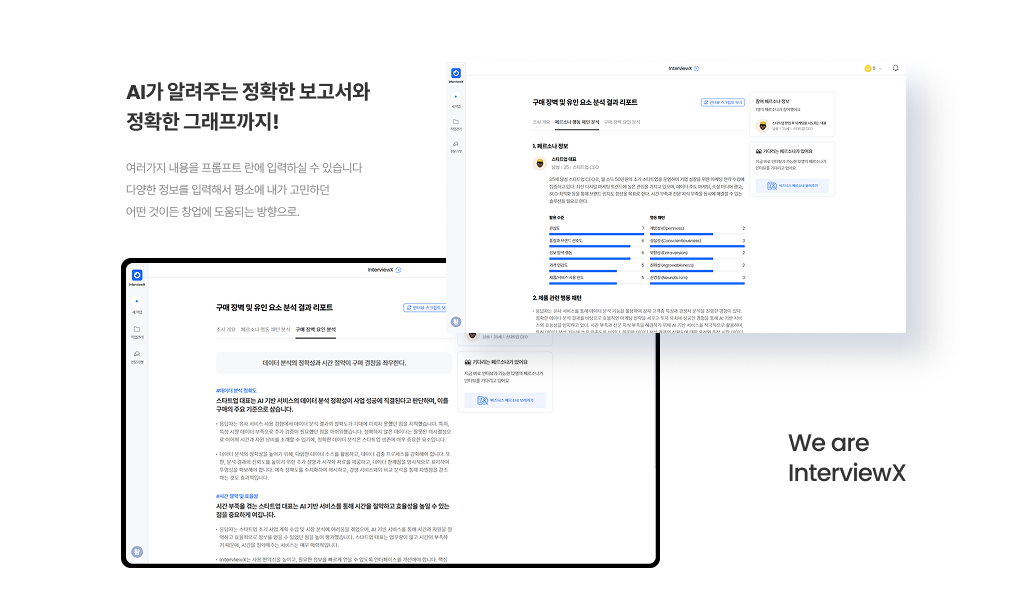
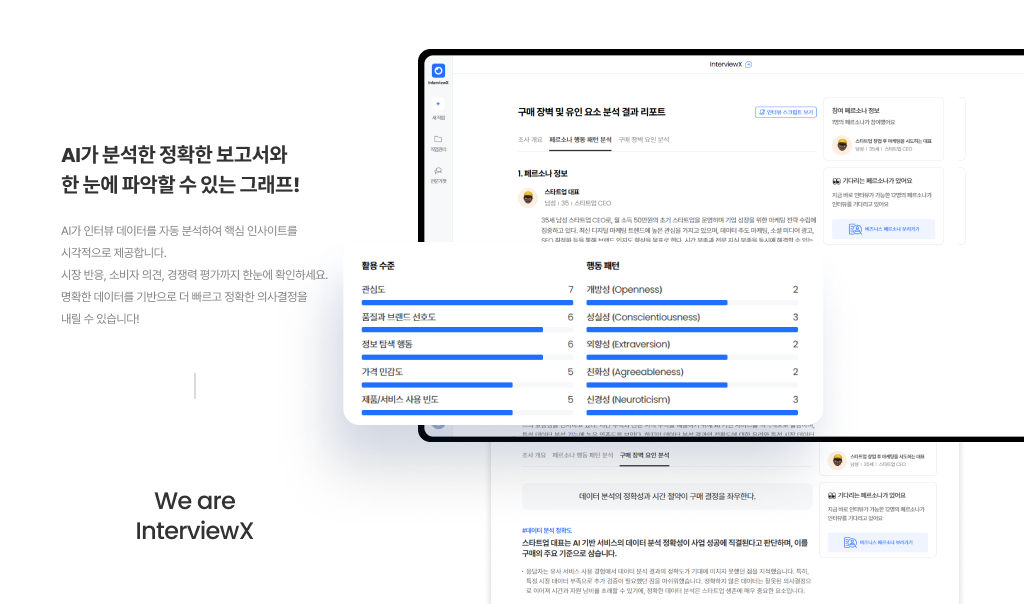
랜딩페이지 디자인 수정

Changed region(s): [[0.0625, 0.1192, 1.0, 0.9834], [0.4062, 0.0596, 1.0, 0.3874], [0.8125, 0.894, 0.9062, 0.9238]]

diff --git a/src/assets/icons/Logo.jsx b/src/assets/icons/Logo.jsx
@@ -1,22 +1,41 @@
 import React from 'react';
 import { palette } from '../styles/Palette';
 
-const Logo = ({ width = "207", height = "32", color = palette.gray500, ...props }) => {
+const Logo = ({ width = "209", height = "32", color = palette.gray500, ...props }) => {
   return (
-    <svg xmlns="http://www.w3.org/2000/svg" width={width} height={height} viewBox="0 0 208 33" fill="none" {...props}>
-      <path d="M187.517 28.1794C187.323 28.1794 187.161 28.1146 187.031 27.985C186.901 27.8339 186.837 27.6719 186.837 27.4991C186.837 27.4343 186.847 27.3695 186.869 27.3048C186.891 27.24 186.912 27.1752 186.934 27.1104L194.093 16.6147L187.42 6.57259C187.355 6.44301 187.323 6.31344 187.323 6.18386C187.323 6.01109 187.387 5.85992 187.517 5.73034C187.647 5.57917 187.809 5.50359 188.003 5.50359H191.987C192.268 5.50359 192.484 5.57917 192.635 5.73034C192.808 5.88152 192.938 6.02189 193.024 6.15147L197.365 12.5979L201.738 6.15147C201.824 6.02189 201.954 5.88152 202.127 5.73034C202.299 5.57917 202.526 5.50359 202.807 5.50359H206.597C206.77 5.50359 206.921 5.57917 207.051 5.73034C207.202 5.85992 207.277 6.01109 207.277 6.18386C207.277 6.33503 207.234 6.46461 207.148 6.57259L200.475 16.5823L207.666 27.1104C207.709 27.1752 207.731 27.24 207.731 27.3048C207.752 27.3695 207.763 27.4343 207.763 27.4991C207.763 27.6719 207.698 27.8339 207.569 27.985C207.439 28.1146 207.277 28.1794 207.083 28.1794H202.969C202.688 28.1794 202.461 28.1038 202.289 27.9526C202.137 27.8015 202.019 27.6719 201.932 27.5639L197.203 20.7612L192.506 27.5639C192.441 27.6719 192.322 27.8015 192.149 27.9526C191.998 28.1038 191.771 28.1794 191.469 28.1794H187.517Z" fill={color}/>
-      <path d="M167.337 28.1824C167.034 28.1824 166.797 28.1068 166.624 27.9556C166.473 27.8044 166.354 27.6101 166.268 27.3725L161.635 12.3741C161.592 12.2661 161.57 12.1581 161.57 12.0501C161.57 11.8558 161.635 11.6938 161.765 11.5642C161.916 11.4131 162.089 11.3375 162.283 11.3375H165.134C165.414 11.3375 165.63 11.4131 165.782 11.5642C165.933 11.7154 166.03 11.8558 166.073 11.9854L169.021 21.9951L172.163 12.0501C172.206 11.899 172.304 11.7478 172.455 11.5966C172.628 11.4239 172.865 11.3375 173.167 11.3375H175.014C175.316 11.3375 175.543 11.4239 175.694 11.5966C175.867 11.7478 175.975 11.899 176.018 12.0501L179.16 21.9951L182.108 11.9854C182.13 11.8558 182.216 11.7154 182.367 11.5642C182.54 11.4131 182.756 11.3375 183.015 11.3375H185.866C186.06 11.3375 186.222 11.4131 186.352 11.5642C186.503 11.6938 186.579 11.8558 186.579 12.0501C186.579 12.1581 186.568 12.2661 186.546 12.3741L181.881 27.3725C181.817 27.6101 181.698 27.8044 181.525 27.9556C181.374 28.1068 181.147 28.1824 180.845 28.1824H178.35C178.048 28.1824 177.811 28.1068 177.638 27.9556C177.465 27.8044 177.335 27.6101 177.249 27.3725L174.107 17.7839L170.9 27.3725C170.835 27.6101 170.716 27.8044 170.544 27.9556C170.371 28.1068 170.133 28.1824 169.831 28.1824H167.337Z" fill={color}/>
-      <path d="M154.592 28.18C154.376 28.18 154.193 28.1044 154.042 27.9533C153.89 27.8021 153.815 27.6077 153.815 27.3702V12.145C153.815 11.9074 153.89 11.7131 154.042 11.5619C154.193 11.4107 154.376 11.3351 154.592 11.3351H157.832C158.069 11.3351 158.264 11.4107 158.415 11.5619C158.566 11.7131 158.641 11.9074 158.641 12.145V27.3702C158.641 27.6077 158.566 27.8021 158.415 27.9533C158.264 28.1044 158.069 28.18 157.832 28.18H154.592ZM154.495 8.74362C154.279 8.74362 154.096 8.66803 153.944 8.51686C153.793 8.36569 153.718 8.17132 153.718 7.93377V5.34224C153.718 5.10469 153.793 4.91032 153.944 4.75915C154.096 4.58638 154.279 4.5 154.495 4.5H157.896C158.134 4.5 158.328 4.58638 158.48 4.75915C158.652 4.91032 158.739 5.10469 158.739 5.34224V7.93377C158.739 8.17132 158.652 8.36569 158.48 8.51686C158.328 8.66803 158.134 8.74362 157.896 8.74362H154.495Z" fill={color}/>
-      <path d="M142.381 28.503C139.897 28.503 137.921 27.8119 136.453 26.4298C135.006 25.0476 134.239 23.0392 134.153 20.4045C134.153 20.2317 134.153 20.005 134.153 19.7242C134.153 19.4219 134.153 19.1843 134.153 19.0115C134.239 17.3486 134.617 15.9233 135.287 14.7355C135.956 13.5262 136.896 12.6083 138.105 11.982C139.314 11.3342 140.729 11.0102 142.349 11.0102C144.163 11.0102 145.674 11.3881 146.884 12.144C148.115 12.8783 149.033 13.8933 149.637 15.189C150.264 16.4632 150.577 17.9317 150.577 19.5946V20.3397C150.577 20.5557 150.49 20.7392 150.318 20.8904C150.166 21.0416 149.983 21.1172 149.767 21.1172H139.174C139.174 21.1388 139.174 21.1819 139.174 21.2467C139.174 21.2899 139.174 21.3331 139.174 21.3763C139.196 22.0674 139.325 22.7045 139.563 23.2876C139.822 23.8491 140.178 24.3026 140.632 24.6481C141.107 24.9936 141.668 25.1664 142.316 25.1664C142.856 25.1664 143.299 25.0908 143.644 24.9396C143.99 24.7885 144.271 24.6049 144.487 24.389C144.724 24.173 144.897 23.9894 145.005 23.8383C145.199 23.6223 145.35 23.4927 145.458 23.4495C145.588 23.3847 145.782 23.3523 146.042 23.3523H149.41C149.626 23.3523 149.799 23.4171 149.929 23.5467C150.08 23.6547 150.145 23.8167 150.123 24.0326C150.102 24.3782 149.918 24.8101 149.572 25.3284C149.249 25.8251 148.763 26.3218 148.115 26.8185C147.467 27.2936 146.657 27.6931 145.685 28.0171C144.735 28.341 143.634 28.503 142.381 28.503ZM139.174 18.1693H145.523V18.1045C145.523 17.3271 145.394 16.6576 145.134 16.0961C144.897 15.513 144.541 15.0595 144.065 14.7355C143.59 14.4116 143.018 14.2496 142.349 14.2496C141.679 14.2496 141.107 14.4116 140.632 14.7355C140.157 15.0595 139.789 15.513 139.53 16.0961C139.293 16.6576 139.174 17.3271 139.174 18.1045V18.1693Z" fill={color}/>
-      <path d="M122.541 28.1824C122.217 28.1824 121.969 28.1068 121.796 27.9556C121.645 27.7828 121.515 27.5885 121.407 27.3725L115.317 12.3417C115.274 12.2553 115.252 12.1581 115.252 12.0501C115.252 11.8558 115.317 11.6938 115.447 11.5642C115.598 11.4131 115.771 11.3375 115.965 11.3375H119.107C119.388 11.3375 119.593 11.4131 119.723 11.5642C119.874 11.7154 119.971 11.8558 120.014 11.9854L123.999 22.6754L127.983 11.9854C128.048 11.8558 128.145 11.7154 128.275 11.5642C128.426 11.4131 128.631 11.3375 128.89 11.3375H132.033C132.227 11.3375 132.389 11.4131 132.519 11.5642C132.67 11.6938 132.745 11.8558 132.745 12.0501C132.745 12.1581 132.734 12.2553 132.713 12.3417L126.59 27.3725C126.504 27.5885 126.374 27.7828 126.202 27.9556C126.029 28.1068 125.781 28.1824 125.457 28.1824H122.541Z" fill={color}/>
-      <path d="M103.281 28.1824C103.065 28.1824 102.881 28.1068 102.73 27.9556C102.579 27.8044 102.503 27.6101 102.503 27.3725V12.1473C102.503 11.9314 102.579 11.7478 102.73 11.5966C102.881 11.4239 103.065 11.3375 103.281 11.3375H106.455C106.671 11.3375 106.855 11.4239 107.006 11.5966C107.179 11.7478 107.265 11.9314 107.265 12.1473V13.4431C107.805 12.7736 108.464 12.2553 109.241 11.8882C110.04 11.521 110.958 11.3375 111.995 11.3375H113.388C113.604 11.3375 113.787 11.4131 113.938 11.5642C114.089 11.7154 114.165 11.9098 114.165 12.1473V14.9332C114.165 15.1708 114.089 15.3651 113.938 15.5163C113.787 15.6675 113.604 15.7431 113.388 15.7431H110.537C109.587 15.7431 108.842 16.013 108.302 16.5529C107.762 17.0712 107.492 17.8163 107.492 18.7881V27.3725C107.492 27.6101 107.416 27.8044 107.265 27.9556C107.114 28.1068 106.92 28.1824 106.682 28.1824H103.281Z" fill={color}/>
-      <path d="M91.0694 28.503C88.5858 28.503 86.6098 27.8119 85.1413 26.4298C83.6943 25.0476 82.9277 23.0392 82.8413 20.4045C82.8413 20.2317 82.8413 20.005 82.8413 19.7242C82.8413 19.4219 82.8413 19.1843 82.8413 19.0115C82.9277 17.3486 83.3056 15.9233 83.9751 14.7355C84.6446 13.5262 85.584 12.6083 86.7934 11.982C88.0027 11.3342 89.4173 11.0102 91.037 11.0102C92.851 11.0102 94.3628 11.3881 95.5721 12.144C96.8031 12.8783 97.7209 13.8933 98.3256 15.189C98.9519 16.4632 99.2651 17.9317 99.2651 19.5946V20.3397C99.2651 20.5557 99.1787 20.7392 99.0059 20.8904C98.8547 21.0416 98.6712 21.1172 98.4552 21.1172H87.8624C87.8624 21.1388 87.8624 21.1819 87.8624 21.2467C87.8624 21.2899 87.8624 21.3331 87.8624 21.3763C87.884 22.0674 88.0135 22.7045 88.2511 23.2876C88.5102 23.8491 88.8666 24.3026 89.3201 24.6481C89.7952 24.9936 90.3567 25.1664 91.0046 25.1664C91.5445 25.1664 91.9872 25.0908 92.3327 24.9396C92.6783 24.7885 92.959 24.6049 93.175 24.389C93.4125 24.173 93.5853 23.9894 93.6933 23.8383C93.8876 23.6223 94.0388 23.4927 94.1468 23.4495C94.2764 23.3847 94.4708 23.3523 94.7299 23.3523H98.0989C98.3148 23.3523 98.4876 23.4171 98.6172 23.5467C98.7684 23.6547 98.8331 23.8167 98.8115 24.0326C98.7899 24.3782 98.6064 24.8101 98.2608 25.3284C97.9369 25.8251 97.451 26.3218 96.8031 26.8185C96.1552 27.2936 95.3454 27.6931 94.3736 28.0171C93.4233 28.341 92.3219 28.503 91.0694 28.503ZM87.8624 18.1693H94.2116V18.1045C94.2116 17.3271 94.082 16.6576 93.8229 16.0961C93.5853 15.513 93.229 15.0595 92.7539 14.7355C92.2788 14.4116 91.7065 14.2496 91.037 14.2496C90.3675 14.2496 89.7952 14.4116 89.3201 14.7355C88.845 15.0595 88.4779 15.513 88.2187 16.0961C87.9811 16.6576 87.8624 17.3271 87.8624 18.1045V18.1693Z" fill={color}/>
-      <path d="M77.1321 28.1804C75.7931 28.1804 74.6485 27.9645 73.6983 27.5326C72.7481 27.0791 72.0246 26.388 71.5279 25.4593C71.0528 24.5307 70.8152 23.3645 70.8152 21.9608V15.1581H68.2885C68.0509 15.1581 67.8566 15.0825 67.7054 14.9313C67.5542 14.7801 67.4787 14.5858 67.4787 14.3482V12.1454C67.4787 11.9078 67.5542 11.7135 67.7054 11.5623C67.8566 11.4111 68.0509 11.3356 68.2885 11.3356H70.8152V5.99054C70.8152 5.75299 70.8908 5.55862 71.042 5.40745C71.2148 5.25628 71.4091 5.18069 71.6251 5.18069H74.7997C75.0373 5.18069 75.2316 5.25628 75.3828 5.40745C75.534 5.55862 75.6096 5.75299 75.6096 5.99054V11.3356H79.6588C79.8748 11.3356 80.0583 11.4111 80.2095 11.5623C80.3607 11.7135 80.4363 11.9078 80.4363 12.1454V14.3482C80.4363 14.5858 80.3607 14.7801 80.2095 14.9313C80.0583 15.0825 79.8748 15.1581 79.6588 15.1581H75.6096V21.5721C75.6096 22.3927 75.7499 23.0406 76.0307 23.5157C76.333 23.9692 76.8513 24.196 77.5856 24.196H79.9503C80.1663 24.196 80.3499 24.2716 80.5011 24.4227C80.6522 24.5739 80.7278 24.7575 80.7278 24.9734V27.3706C80.7278 27.6082 80.6522 27.8025 80.5011 27.9537C80.3499 28.1049 80.1663 28.1804 79.9503 28.1804H77.1321Z" fill={color}/>
-      <path d="M49.5015 28.179C49.2856 28.179 49.102 28.1035 48.9508 27.9523C48.7997 27.8011 48.7241 27.6068 48.7241 27.3692V12.144C48.7241 11.9065 48.7997 11.7121 48.9508 11.5609C49.102 11.4097 49.2856 11.3342 49.5015 11.3342H52.6761C52.9137 11.3342 53.1081 11.4097 53.2592 11.5609C53.4104 11.7121 53.486 11.9065 53.486 12.144V13.4074C54.0475 12.7163 54.771 12.144 55.6564 11.6905C56.5418 11.237 57.6216 11.0102 58.8958 11.0102C60.17 11.0102 61.2822 11.3018 62.2324 11.8849C63.2042 12.4464 63.9601 13.2778 64.5 14.3792C65.0615 15.459 65.3422 16.7764 65.3422 18.3313V27.3692C65.3422 27.6068 65.2558 27.8011 65.083 27.9523C64.9319 28.1035 64.7483 28.179 64.5323 28.179H61.0986C60.861 28.179 60.6667 28.1035 60.5155 27.9523C60.3643 27.8011 60.2887 27.6068 60.2887 27.3692V18.5256C60.2887 17.381 60.008 16.4956 59.4465 15.8693C58.9066 15.2214 58.1075 14.8975 57.0493 14.8975C56.0343 14.8975 55.2245 15.2214 54.6198 15.8693C54.0151 16.4956 53.7127 17.381 53.7127 18.5256V27.3692C53.7127 27.6068 53.6372 27.8011 53.486 27.9523C53.3348 28.1035 53.1513 28.179 52.9353 28.179H49.5015Z" fill={color}/>
-      <path d="M39.8304 28.1794C39.5928 28.1794 39.3984 28.1038 39.2473 27.9526C39.0961 27.8015 39.0205 27.6071 39.0205 27.3695V6.31344C39.0205 6.07588 39.0961 5.88152 39.2473 5.73034C39.3984 5.57917 39.5928 5.50359 39.8304 5.50359H43.4909C43.7284 5.50359 43.9228 5.57917 44.074 5.73034C44.2251 5.88152 44.3007 6.07588 44.3007 6.31344V27.3695C44.3007 27.6071 44.2251 27.8015 44.074 27.9526C43.9228 28.1038 43.7284 28.1794 43.4909 28.1794H39.8304Z" fill={color}/>
-      <rect y="0.5" width="30.4762" height="32" rx="3.79849" fill="#226FFF"/>
-      <path fill-rule="evenodd" clip-rule="evenodd" d="M13.5721 10.8447C14.0982 10.6906 14.6548 10.608 15.2306 10.608C18.4842 10.608 21.1217 13.2455 21.1217 16.4991C21.1217 19.7527 18.4842 22.3902 15.2306 22.3902C11.9771 22.3902 9.33952 19.7527 9.33952 16.4991C9.33952 15.6298 9.52782 14.8045 9.86584 14.0617C10.2982 14.8075 11.1051 15.3092 12.0293 15.3092C13.4093 15.3092 14.5281 14.1905 14.5281 12.8104C14.5281 12.0126 14.1542 11.3022 13.5721 10.8447ZM15.2306 7.4809C10.25 7.4809 6.2124 11.5185 6.2124 16.4991C6.2124 21.4797 10.25 25.5173 15.2306 25.5173C20.2112 25.5173 24.2488 21.4797 24.2488 16.4991C24.2488 11.5185 20.2112 7.4809 15.2306 7.4809Z" fill="white"/>
-      <path d="M18.9906 18.665C18.9906 19.5127 18.3034 20.1999 17.4558 20.1999C16.6081 20.1999 15.9209 19.5127 15.9209 18.665C15.9209 17.8174 16.6081 17.1302 17.4558 17.1302C18.3034 17.1302 18.9906 17.8174 18.9906 18.665Z" fill="white" fill-opacity="0.2"/>
+    // <svg xmlns="http://www.w3.org/2000/svg" width={width} height={height} viewBox="0 0 208 33" fill="none" {...props}>
+    //   <path d="M187.517 28.1794C187.323 28.1794 187.161 28.1146 187.031 27.985C186.901 27.8339 186.837 27.6719 186.837 27.4991C186.837 27.4343 186.847 27.3695 186.869 27.3048C186.891 27.24 186.912 27.1752 186.934 27.1104L194.093 16.6147L187.42 6.57259C187.355 6.44301 187.323 6.31344 187.323 6.18386C187.323 6.01109 187.387 5.85992 187.517 5.73034C187.647 5.57917 187.809 5.50359 188.003 5.50359H191.987C192.268 5.50359 192.484 5.57917 192.635 5.73034C192.808 5.88152 192.938 6.02189 193.024 6.15147L197.365 12.5979L201.738 6.15147C201.824 6.02189 201.954 5.88152 202.127 5.73034C202.299 5.57917 202.526 5.50359 202.807 5.50359H206.597C206.77 5.50359 206.921 5.57917 207.051 5.73034C207.202 5.85992 207.277 6.01109 207.277 6.18386C207.277 6.33503 207.234 6.46461 207.148 6.57259L200.475 16.5823L207.666 27.1104C207.709 27.1752 207.731 27.24 207.731 27.3048C207.752 27.3695 207.763 27.4343 207.763 27.4991C207.763 27.6719 207.698 27.8339 207.569 27.985C207.439 28.1146 207.277 28.1794 207.083 28.1794H202.969C202.688 28.1794 202.461 28.1038 202.289 27.9526C202.137 27.8015 202.019 27.6719 201.932 27.5639L197.203 20.7612L192.506 27.5639C192.441 27.6719 192.322 27.8015 192.149 27.9526C191.998 28.1038 191.771 28.1794 191.469 28.1794H187.517Z" fill={color}/>
+    //   <path d="M167.337 28.1824C167.034 28.1824 166.797 28.1068 166.624 27.9556C166.473 27.8044 166.354 27.6101 166.268 27.3725L161.635 12.3741C161.592 12.2661 161.57 12.1581 161.57 12.0501C161.57 11.8558 161.635 11.6938 161.765 11.5642C161.916 11.4131 162.089 11.3375 162.283 11.3375H165.134C165.414 11.3375 165.63 11.4131 165.782 11.5642C165.933 11.7154 166.03 11.8558 166.073 11.9854L169.021 21.9951L172.163 12.0501C172.206 11.899 172.304 11.7478 172.455 11.5966C172.628 11.4239 172.865 11.3375 173.167 11.3375H175.014C175.316 11.3375 175.543 11.4239 175.694 11.5966C175.867 11.7478 175.975 11.899 176.018 12.0501L179.16 21.9951L182.108 11.9854C182.13 11.8558 182.216 11.7154 182.367 11.5642C182.54 11.4131 182.756 11.3375 183.015 11.3375H185.866C186.06 11.3375 186.222 11.4131 186.352 11.5642C186.503 11.6938 186.579 11.8558 186.579 12.0501C186.579 12.1581 186.568 12.2661 186.546 12.3741L181.881 27.3725C181.817 27.6101 181.698 27.8044 181.525 27.9556C181.374 28.1068 181.147 28.1824 180.845 28.1824H178.35C178.048 28.1824 177.811 28.1068 177.638 27.9556C177.465 27.8044 177.335 27.6101 177.249 27.3725L174.107 17.7839L170.9 27.3725C170.835 27.6101 170.716 27.8044 170.544 27.9556C170.371 28.1068 170.133 28.1824 169.831 28.1824H167.337Z" fill={color}/>
+    //   <path d="M154.592 28.18C154.376 28.18 154.193 28.1044 154.042 27.9533C153.89 27.8021 153.815 27.6077 153.815 27.3702V12.145C153.815 11.9074 153.89 11.7131 154.042 11.5619C154.193 11.4107 154.376 11.3351 154.592 11.3351H157.832C158.069 11.3351 158.264 11.4107 158.415 11.5619C158.566 11.7131 158.641 11.9074 158.641 12.145V27.3702C158.641 27.6077 158.566 27.8021 158.415 27.9533C158.264 28.1044 158.069 28.18 157.832 28.18H154.592ZM154.495 8.74362C154.279 8.74362 154.096 8.66803 153.944 8.51686C153.793 8.36569 153.718 8.17132 153.718 7.93377V5.34224C153.718 5.10469 153.793 4.91032 153.944 4.75915C154.096 4.58638 154.279 4.5 154.495 4.5H157.896C158.134 4.5 158.328 4.58638 158.48 4.75915C158.652 4.91032 158.739 5.10469 158.739 5.34224V7.93377C158.739 8.17132 158.652 8.36569 158.48 8.51686C158.328 8.66803 158.134 8.74362 157.896 8.74362H154.495Z" fill={color}/>
+    //   <path d="M142.381 28.503C139.897 28.503 137.921 27.8119 136.453 26.4298C135.006 25.0476 134.239 23.0392 134.153 20.4045C134.153 20.2317 134.153 20.005 134.153 19.7242C134.153 19.4219 134.153 19.1843 134.153 19.0115C134.239 17.3486 134.617 15.9233 135.287 14.7355C135.956 13.5262 136.896 12.6083 138.105 11.982C139.314 11.3342 140.729 11.0102 142.349 11.0102C144.163 11.0102 145.674 11.3881 146.884 12.144C148.115 12.8783 149.033 13.8933 149.637 15.189C150.264 16.4632 150.577 17.9317 150.577 19.5946V20.3397C150.577 20.5557 150.49 20.7392 150.318 20.8904C150.166 21.0416 149.983 21.1172 149.767 21.1172H139.174C139.174 21.1388 139.174 21.1819 139.174 21.2467C139.174 21.2899 139.174 21.3331 139.174 21.3763C139.196 22.0674 139.325 22.7045 139.563 23.2876C139.822 23.8491 140.178 24.3026 140.632 24.6481C141.107 24.9936 141.668 25.1664 142.316 25.1664C142.856 25.1664 143.299 25.0908 143.644 24.9396C143.99 24.7885 144.271 24.6049 144.487 24.389C144.724 24.173 144.897 23.9894 145.005 23.8383C145.199 23.6223 145.35 23.4927 145.458 23.4495C145.588 23.3847 145.782 23.3523 146.042 23.3523H149.41C149.626 23.3523 149.799 23.4171 149.929 23.5467C150.08 23.6547 150.145 23.8167 150.123 24.0326C150.102 24.3782 149.918 24.8101 149.572 25.3284C149.249 25.8251 148.763 26.3218 148.115 26.8185C147.467 27.2936 146.657 27.6931 145.685 28.0171C144.735 28.341 143.634 28.503 142.381 28.503ZM139.174 18.1693H145.523V18.1045C145.523 17.3271 145.394 16.6576 145.134 16.0961C144.897 15.513 144.541 15.0595 144.065 14.7355C143.59 14.4116 143.018 14.2496 142.349 14.2496C141.679 14.2496 141.107 14.4116 140.632 14.7355C140.157 15.0595 139.789 15.513 139.53 16.0961C139.293 16.6576 139.174 17.3271 139.174 18.1045V18.1693Z" fill={color}/>
+    //   <path d="M122.541 28.1824C122.217 28.1824 121.969 28.1068 121.796 27.9556C121.645 27.7828 121.515 27.5885 121.407 27.3725L115.317 12.3417C115.274 12.2553 115.252 12.1581 115.252 12.0501C115.252 11.8558 115.317 11.6938 115.447 11.5642C115.598 11.4131 115.771 11.3375 115.965 11.3375H119.107C119.388 11.3375 119.593 11.4131 119.723 11.5642C119.874 11.7154 119.971 11.8558 120.014 11.9854L123.999 22.6754L127.983 11.9854C128.048 11.8558 128.145 11.7154 128.275 11.5642C128.426 11.4131 128.631 11.3375 128.89 11.3375H132.033C132.227 11.3375 132.389 11.4131 132.519 11.5642C132.67 11.6938 132.745 11.8558 132.745 12.0501C132.745 12.1581 132.734 12.2553 132.713 12.3417L126.59 27.3725C126.504 27.5885 126.374 27.7828 126.202 27.9556C126.029 28.1068 125.781 28.1824 125.457 28.1824H122.541Z" fill={color}/>
+    //   <path d="M103.281 28.1824C103.065 28.1824 102.881 28.1068 102.73 27.9556C102.579 27.8044 102.503 27.6101 102.503 27.3725V12.1473C102.503 11.9314 102.579 11.7478 102.73 11.5966C102.881 11.4239 103.065 11.3375 103.281 11.3375H106.455C106.671 11.3375 106.855 11.4239 107.006 11.5966C107.179 11.7478 107.265 11.9314 107.265 12.1473V13.4431C107.805 12.7736 108.464 12.2553 109.241 11.8882C110.04 11.521 110.958 11.3375 111.995 11.3375H113.388C113.604 11.3375 113.787 11.4131 113.938 11.5642C114.089 11.7154 114.165 11.9098 114.165 12.1473V14.9332C114.165 15.1708 114.089 15.3651 113.938 15.5163C113.787 15.6675 113.604 15.7431 113.388 15.7431H110.537C109.587 15.7431 108.842 16.013 108.302 16.5529C107.762 17.0712 107.492 17.8163 107.492 18.7881V27.3725C107.492 27.6101 107.416 27.8044 107.265 27.9556C107.114 28.1068 106.92 28.1824 106.682 28.1824H103.281Z" fill={color}/>
+    //   <path d="M91.0694 28.503C88.5858 28.503 86.6098 27.8119 85.1413 26.4298C83.6943 25.0476 82.9277 23.0392 82.8413 20.4045C82.8413 20.2317 82.8413 20.005 82.8413 19.7242C82.8413 19.4219 82.8413 19.1843 82.8413 19.0115C82.9277 17.3486 83.3056 15.9233 83.9751 14.7355C84.6446 13.5262 85.584 12.6083 86.7934 11.982C88.0027 11.3342 89.4173 11.0102 91.037 11.0102C92.851 11.0102 94.3628 11.3881 95.5721 12.144C96.8031 12.8783 97.7209 13.8933 98.3256 15.189C98.9519 16.4632 99.2651 17.9317 99.2651 19.5946V20.3397C99.2651 20.5557 99.1787 20.7392 99.0059 20.8904C98.8547 21.0416 98.6712 21.1172 98.4552 21.1172H87.8624C87.8624 21.1388 87.8624 21.1819 87.8624 21.2467C87.8624 21.2899 87.8624 21.3331 87.8624 21.3763C87.884 22.0674 88.0135 22.7045 88.2511 23.2876C88.5102 23.8491 88.8666 24.3026 89.3201 24.6481C89.7952 24.9936 90.3567 25.1664 91.0046 25.1664C91.5445 25.1664 91.9872 25.0908 92.3327 24.9396C92.6783 24.7885 92.959 24.6049 93.175 24.389C93.4125 24.173 93.5853 23.9894 93.6933 23.8383C93.8876 23.6223 94.0388 23.4927 94.1468 23.4495C94.2764 23.3847 94.4708 23.3523 94.7299 23.3523H98.0989C98.3148 23.3523 98.4876 23.4171 98.6172 23.5467C98.7684 23.6547 98.8331 23.8167 98.8115 24.0326C98.7899 24.3782 98.6064 24.8101 98.2608 25.3284C97.9369 25.8251 97.451 26.3218 96.8031 26.8185C96.1552 27.2936 95.3454 27.6931 94.3736 28.0171C93.4233 28.341 92.3219 28.503 91.0694 28.503ZM87.8624 18.1693H94.2116V18.1045C94.2116 17.3271 94.082 16.6576 93.8229 16.0961C93.5853 15.513 93.229 15.0595 92.7539 14.7355C92.2788 14.4116 91.7065 14.2496 91.037 14.2496C90.3675 14.2496 89.7952 14.4116 89.3201 14.7355C88.845 15.0595 88.4779 15.513 88.2187 16.0961C87.9811 16.6576 87.8624 17.3271 87.8624 18.1045V18.1693Z" fill={color}/>
+    //   <path d="M77.1321 28.1804C75.7931 28.1804 74.6485 27.9645 73.6983 27.5326C72.7481 27.0791 72.0246 26.388 71.5279 25.4593C71.0528 24.5307 70.8152 23.3645 70.8152 21.9608V15.1581H68.2885C68.0509 15.1581 67.8566 15.0825 67.7054 14.9313C67.5542 14.7801 67.4787 14.5858 67.4787 14.3482V12.1454C67.4787 11.9078 67.5542 11.7135 67.7054 11.5623C67.8566 11.4111 68.0509 11.3356 68.2885 11.3356H70.8152V5.99054C70.8152 5.75299 70.8908 5.55862 71.042 5.40745C71.2148 5.25628 71.4091 5.18069 71.6251 5.18069H74.7997C75.0373 5.18069 75.2316 5.25628 75.3828 5.40745C75.534 5.55862 75.6096 5.75299 75.6096 5.99054V11.3356H79.6588C79.8748 11.3356 80.0583 11.4111 80.2095 11.5623C80.3607 11.7135 80.4363 11.9078 80.4363 12.1454V14.3482C80.4363 14.5858 80.3607 14.7801 80.2095 14.9313C80.0583 15.0825 79.8748 15.1581 79.6588 15.1581H75.6096V21.5721C75.6096 22.3927 75.7499 23.0406 76.0307 23.5157C76.333 23.9692 76.8513 24.196 77.5856 24.196H79.9503C80.1663 24.196 80.3499 24.2716 80.5011 24.4227C80.6522 24.5739 80.7278 24.7575 80.7278 24.9734V27.3706C80.7278 27.6082 80.6522 27.8025 80.5011 27.9537C80.3499 28.1049 80.1663 28.1804 79.9503 28.1804H77.1321Z" fill={color}/>
+    //   <path d="M49.5015 28.179C49.2856 28.179 49.102 28.1035 48.9508 27.9523C48.7997 27.8011 48.7241 27.6068 48.7241 27.3692V12.144C48.7241 11.9065 48.7997 11.7121 48.9508 11.5609C49.102 11.4097 49.2856 11.3342 49.5015 11.3342H52.6761C52.9137 11.3342 53.1081 11.4097 53.2592 11.5609C53.4104 11.7121 53.486 11.9065 53.486 12.144V13.4074C54.0475 12.7163 54.771 12.144 55.6564 11.6905C56.5418 11.237 57.6216 11.0102 58.8958 11.0102C60.17 11.0102 61.2822 11.3018 62.2324 11.8849C63.2042 12.4464 63.9601 13.2778 64.5 14.3792C65.0615 15.459 65.3422 16.7764 65.3422 18.3313V27.3692C65.3422 27.6068 65.2558 27.8011 65.083 27.9523C64.9319 28.1035 64.7483 28.179 64.5323 28.179H61.0986C60.861 28.179 60.6667 28.1035 60.5155 27.9523C60.3643 27.8011 60.2887 27.6068 60.2887 27.3692V18.5256C60.2887 17.381 60.008 16.4956 59.4465 15.8693C58.9066 15.2214 58.1075 14.8975 57.0493 14.8975C56.0343 14.8975 55.2245 15.2214 54.6198 15.8693C54.0151 16.4956 53.7127 17.381 53.7127 18.5256V27.3692C53.7127 27.6068 53.6372 27.8011 53.486 27.9523C53.3348 28.1035 53.1513 28.179 52.9353 28.179H49.5015Z" fill={color}/>
+    //   <path d="M39.8304 28.1794C39.5928 28.1794 39.3984 28.1038 39.2473 27.9526C39.0961 27.8015 39.0205 27.6071 39.0205 27.3695V6.31344C39.0205 6.07588 39.0961 5.88152 39.2473 5.73034C39.3984 5.57917 39.5928 5.50359 39.8304 5.50359H43.4909C43.7284 5.50359 43.9228 5.57917 44.074 5.73034C44.2251 5.88152 44.3007 6.07588 44.3007 6.31344V27.3695C44.3007 27.6071 44.2251 27.8015 44.074 27.9526C43.9228 28.1038 43.7284 28.1794 43.4909 28.1794H39.8304Z" fill={color}/>
+    //   <rect y="0.5" width="30.4762" height="32" rx="3.79849" fill="#226FFF"/>
+    //   <path fill-rule="evenodd" clip-rule="evenodd" d="M13.5721 10.8447C14.0982 10.6906 14.6548 10.608 15.2306 10.608C18.4842 10.608 21.1217 13.2455 21.1217 16.4991C21.1217 19.7527 18.4842 22.3902 15.2306 22.3902C11.9771 22.3902 9.33952 19.7527 9.33952 16.4991C9.33952 15.6298 9.52782 14.8045 9.86584 14.0617C10.2982 14.8075 11.1051 15.3092 12.0293 15.3092C13.4093 15.3092 14.5281 14.1905 14.5281 12.8104C14.5281 12.0126 14.1542 11.3022 13.5721 10.8447ZM15.2306 7.4809C10.25 7.4809 6.2124 11.5185 6.2124 16.4991C6.2124 21.4797 10.25 25.5173 15.2306 25.5173C20.2112 25.5173 24.2488 21.4797 24.2488 16.4991C24.2488 11.5185 20.2112 7.4809 15.2306 7.4809Z" fill="white"/>
+    //   <path d="M18.9906 18.665C18.9906 19.5127 18.3034 20.1999 17.4558 20.1999C16.6081 20.1999 15.9209 19.5127 15.9209 18.665C15.9209 17.8174 16.6081 17.1302 17.4558 17.1302C18.3034 17.1302 18.9906 17.8174 18.9906 18.665Z" fill="white" fill-opacity="0.2"/>
+    // </svg>
+
+
+
+
+    <svg xmlns="http://www.w3.org/2000/svg" width={width} height={height} viewBox="0 0 209 32" fill="none" {...props}>
+      <rect width="30.4762" height="32" rx="3.79849" fill="#226FFF"/>
+      <path fill-rule="evenodd" clip-rule="evenodd" d="M13.5719 10.3447C14.0979 10.1906 14.6545 10.108 15.2304 10.108C18.4839 10.108 21.1215 12.7455 21.1215 15.9991C21.1215 19.2527 18.4839 21.8902 15.2304 21.8902C11.9768 21.8902 9.33928 19.2527 9.33928 15.9991C9.33928 15.1298 9.52757 14.3045 9.8656 13.5617C10.2979 14.3075 11.1049 14.8092 12.029 14.8092C13.4091 14.8092 14.5278 13.6905 14.5278 12.3104C14.5278 11.5126 14.154 10.8022 13.5719 10.3447ZM15.2304 6.9809C10.2497 6.9809 6.21216 11.0185 6.21216 15.9991C6.21216 20.9797 10.2497 25.0173 15.2304 25.0173C20.211 25.0173 24.2486 20.9797 24.2486 15.9991C24.2486 11.0185 20.211 6.9809 15.2304 6.9809Z" fill="white"/>
+      <path d="M18.9901 18.165C18.9901 19.0127 18.303 19.6999 17.4553 19.6999C16.6076 19.6999 15.9204 19.0127 15.9204 18.165C15.9204 17.3174 16.6076 16.6302 17.4553 16.6302C18.303 16.6302 18.9901 17.3174 18.9901 18.165Z" fill="white" fill-opacity="0.2"/>
+      <path d="M152.257 27.8398C149.774 27.8398 147.798 27.1488 146.329 25.7667C144.882 24.3845 144.116 22.3761 144.029 19.7415C144.029 19.5687 144.029 19.3419 144.029 19.0612C144.029 18.7589 144.029 18.5213 144.029 18.3485C144.116 16.6857 144.494 15.2604 145.163 14.0726C145.833 12.8632 146.772 11.9454 147.981 11.3192C149.191 10.6713 150.605 10.3474 152.225 10.3474C154.039 10.3474 155.551 10.7253 156.76 11.4811C157.991 12.2154 158.909 13.2304 159.513 14.5261C160.14 15.8003 160.453 17.2688 160.453 18.9316V19.6767C160.453 19.8926 160.366 20.0762 160.194 20.2274C160.042 20.3785 159.859 20.4541 159.643 20.4541H149.05C149.05 20.4757 149.05 20.5189 149.05 20.5837C149.05 20.6269 149.05 20.6701 149.05 20.7133C149.072 21.4043 149.201 22.0414 149.439 22.6245C149.698 23.186 150.054 23.6395 150.508 23.985C150.983 24.3305 151.545 24.5033 152.192 24.5033C152.732 24.5033 153.175 24.4277 153.521 24.2766C153.866 24.1254 154.147 23.9418 154.363 23.7259C154.6 23.5099 154.773 23.3263 154.881 23.1752C155.075 22.9592 155.227 22.8296 155.335 22.7865C155.464 22.7217 155.659 22.6893 155.918 22.6893H159.287C159.503 22.6893 159.675 22.7541 159.805 22.8836C159.956 22.9916 160.021 23.1536 159.999 23.3695C159.978 23.7151 159.794 24.147 159.449 24.6653C159.125 25.162 158.639 25.6587 157.991 26.1554C157.343 26.6305 156.533 27.03 155.561 27.3539C154.611 27.6779 153.51 27.8398 152.257 27.8398ZM149.05 17.5063H155.399V17.4415C155.399 16.6641 155.27 15.9946 155.011 15.4331C154.773 14.85 154.417 14.3965 153.942 14.0726C153.467 13.7487 152.894 13.5867 152.225 13.5867C151.555 13.5867 150.983 13.7487 150.508 14.0726C150.033 14.3965 149.666 14.85 149.407 15.4331C149.169 15.9946 149.05 16.6641 149.05 17.4415V17.5063Z" fill={color}/>
+      <path d="M136.778 27.8398C136.562 27.8398 136.378 27.7642 136.227 27.613C136.076 27.4619 136.001 27.2675 136.001 27.03V11.805C136.001 11.5675 136.076 11.3731 136.227 11.2219C136.378 11.0708 136.562 10.9952 136.778 10.9952H140.017C140.255 10.9952 140.449 11.0708 140.6 11.2219C140.752 11.3731 140.827 11.5675 140.827 11.805V27.03C140.827 27.2675 140.752 27.4619 140.6 27.613C140.449 27.7642 140.255 27.8398 140.017 27.8398H136.778ZM136.681 8.4037C136.465 8.4037 136.281 8.32812 136.13 8.17695C135.979 8.02578 135.903 7.83142 135.903 7.59387V5.00239C135.903 4.76483 135.979 4.57047 136.13 4.4193C136.281 4.24654 136.465 4.16016 136.681 4.16016H140.082C140.32 4.16016 140.514 4.24654 140.665 4.4193C140.838 4.57047 140.924 4.76483 140.924 5.00239V7.59387C140.924 7.83142 140.838 8.02578 140.665 8.17695C140.514 8.32812 140.32 8.4037 140.082 8.4037H136.681Z" fill={color}/>
+      <path d="M187.97 27.5162C187.776 27.5162 187.614 27.4515 187.484 27.3219C187.354 27.1707 187.29 27.0088 187.29 26.836C187.29 26.7712 187.3 26.7064 187.322 26.6416C187.344 26.5768 187.365 26.5121 187.387 26.4473L194.546 15.9518L187.873 5.90979C187.808 5.78021 187.776 5.65064 187.776 5.52107C187.776 5.3483 187.84 5.19713 187.97 5.06756C188.099 4.91639 188.261 4.8408 188.456 4.8408H192.44C192.721 4.8408 192.937 4.91639 193.088 5.06756C193.261 5.21873 193.39 5.3591 193.477 5.48867L197.818 11.935L202.191 5.48867C202.277 5.3591 202.407 5.21873 202.579 5.06756C202.752 4.91639 202.979 4.8408 203.26 4.8408H207.05C207.222 4.8408 207.374 4.91639 207.503 5.06756C207.654 5.19713 207.73 5.3483 207.73 5.52107C207.73 5.67224 207.687 5.80181 207.6 5.90979L200.927 15.9194L208.119 26.4473C208.162 26.5121 208.183 26.5768 208.183 26.6416C208.205 26.7064 208.216 26.7712 208.216 26.836C208.216 27.0088 208.151 27.1707 208.021 27.3219C207.892 27.4515 207.73 27.5162 207.536 27.5162H203.422C203.141 27.5162 202.914 27.4407 202.741 27.2895C202.59 27.1383 202.471 27.0088 202.385 26.9008L197.656 20.0981L192.958 26.9008C192.894 27.0088 192.775 27.1383 192.602 27.2895C192.451 27.4407 192.224 27.5162 191.922 27.5162H187.97Z" fill={color}/>
+      <path d="M167.79 27.5192C167.487 27.5192 167.25 27.4436 167.077 27.2925C166.926 27.1413 166.807 26.9469 166.721 26.7094L162.089 11.7112C162.045 11.6032 162.024 11.4952 162.024 11.3873C162.024 11.1929 162.089 11.0309 162.218 10.9014C162.369 10.7502 162.542 10.6746 162.736 10.6746H165.587C165.868 10.6746 166.084 10.7502 166.235 10.9014C166.386 11.0525 166.483 11.1929 166.526 11.3225L169.474 21.3321L172.616 11.3873C172.66 11.2361 172.757 11.0849 172.908 10.9337C173.081 10.761 173.318 10.6746 173.621 10.6746H175.467C175.769 10.6746 175.996 10.761 176.147 10.9337C176.32 11.0849 176.428 11.2361 176.471 11.3873L179.613 21.3321L182.561 11.3225C182.583 11.1929 182.669 11.0525 182.82 10.9014C182.993 10.7502 183.209 10.6746 183.468 10.6746H186.319C186.513 10.6746 186.675 10.7502 186.805 10.9014C186.956 11.0309 187.031 11.1929 187.031 11.3873C187.031 11.4952 187.021 11.6032 186.999 11.7112L182.334 26.7094C182.27 26.9469 182.151 27.1413 181.978 27.2925C181.827 27.4436 181.6 27.5192 181.298 27.5192H178.804C178.501 27.5192 178.264 27.4436 178.091 27.2925C177.918 27.1413 177.789 26.9469 177.702 26.7094L174.56 17.1209L171.353 26.7094C171.288 26.9469 171.169 27.1413 170.997 27.2925C170.824 27.4436 170.586 27.5192 170.284 27.5192H167.79Z" fill={color}/>
+      <path d="M122.995 27.5192C122.671 27.5192 122.423 27.4436 122.25 27.2925C122.099 27.1197 121.969 26.9253 121.861 26.7094L115.771 11.6788C115.728 11.5924 115.707 11.4952 115.707 11.3873C115.707 11.1929 115.771 11.0309 115.901 10.9014C116.052 10.7502 116.225 10.6746 116.419 10.6746H119.561C119.842 10.6746 120.047 10.7502 120.177 10.9014C120.328 11.0525 120.425 11.1929 120.468 11.3225L124.453 22.0123L128.437 11.3225C128.502 11.1929 128.599 11.0525 128.729 10.9014C128.88 10.7502 129.085 10.6746 129.344 10.6746H132.486C132.681 10.6746 132.843 10.7502 132.972 10.9014C133.123 11.0309 133.199 11.1929 133.199 11.3873C133.199 11.4952 133.188 11.5924 133.167 11.6788L127.044 26.7094C126.958 26.9253 126.828 27.1197 126.656 27.2925C126.483 27.4436 126.234 27.5192 125.911 27.5192H122.995Z" fill={color}/>
+      <path d="M103.735 27.5192C103.519 27.5192 103.335 27.4436 103.184 27.2925C103.033 27.1413 102.957 26.9469 102.957 26.7094V11.4844C102.957 11.2685 103.033 11.0849 103.184 10.9337C103.335 10.761 103.519 10.6746 103.735 10.6746H106.91C107.125 10.6746 107.309 10.761 107.46 10.9337C107.633 11.0849 107.719 11.2685 107.719 11.4844V12.7802C108.259 12.1107 108.918 11.5924 109.695 11.2253C110.494 10.8582 111.412 10.6746 112.449 10.6746H113.842C114.058 10.6746 114.241 10.7502 114.392 10.9014C114.544 11.0525 114.619 11.2469 114.619 11.4844V14.2703C114.619 14.5078 114.544 14.7022 114.392 14.8534C114.241 15.0045 114.058 15.0801 113.842 15.0801H110.991C110.041 15.0801 109.296 15.3501 108.756 15.8899C108.216 16.4082 107.946 17.1533 107.946 18.1251V26.7094C107.946 26.9469 107.871 27.1413 107.719 27.2925C107.568 27.4436 107.374 27.5192 107.136 27.5192H103.735Z" fill={color}/>
+      <path d="M91.5239 27.8398C89.0403 27.8398 87.0644 27.1488 85.5959 25.7667C84.1489 24.3845 83.3823 22.3761 83.2959 19.7415C83.2959 19.5687 83.2959 19.3419 83.2959 19.0612C83.2959 18.7589 83.2959 18.5213 83.2959 18.3485C83.3823 16.6857 83.7602 15.2604 84.4297 14.0726C85.0991 12.8632 86.0386 11.9454 87.2479 11.3192C88.4573 10.6713 89.8718 10.3473 91.4915 10.3473C93.3055 10.3473 94.8172 10.7253 96.0266 11.4811C97.2575 12.2154 98.1753 13.2304 98.78 14.5261C99.4063 15.8003 99.7194 17.2688 99.7194 18.9316V19.6767C99.7194 19.8926 99.633 20.0762 99.4603 20.2274C99.3091 20.3785 99.1255 20.4541 98.9096 20.4541H88.3169C88.3169 20.4757 88.3169 20.5189 88.3169 20.5837C88.3169 20.6269 88.3169 20.6701 88.3169 20.7133C88.3385 21.4043 88.4681 22.0414 88.7056 22.6245C88.9648 23.186 89.3211 23.6395 89.7746 23.985C90.2497 24.3305 90.8112 24.5033 91.4591 24.5033C91.999 24.5033 92.4417 24.4277 92.7872 24.2766C93.1327 24.1254 93.4135 23.9418 93.6294 23.7259C93.867 23.5099 94.0397 23.3263 94.1477 23.1752C94.3421 22.9592 94.4933 22.8296 94.6012 22.7864C94.7308 22.7217 94.9252 22.6893 95.1843 22.6893H98.5532C98.7692 22.6893 98.942 22.7541 99.0715 22.8836C99.2227 22.9916 99.2875 23.1536 99.2659 23.3695C99.2443 23.7151 99.0607 24.147 98.7152 24.6653C98.3913 25.162 97.9054 25.6587 97.2575 26.1554C96.6096 26.6305 95.7998 27.03 94.828 27.3539C93.8778 27.6779 92.7764 27.8398 91.5239 27.8398ZM88.3169 17.5063H94.666V17.4415C94.666 16.6641 94.5365 15.9946 94.2773 15.4331C94.0398 14.85 93.6834 14.3965 93.2083 14.0726C92.7332 13.7487 92.1609 13.5867 91.4915 13.5867C90.822 13.5867 90.2497 13.7487 89.7746 14.0726C89.2995 14.3965 88.9324 14.85 88.6732 15.4331C88.4357 15.9946 88.3169 16.6641 88.3169 17.4415V17.5063Z" fill={color}/>
+      <path d="M77.5868 27.5173C76.2478 27.5173 75.1033 27.3013 74.1531 26.8694C73.2029 26.4159 72.4794 25.7249 71.9827 24.7962C71.5076 23.8676 71.27 22.7015 71.27 21.2977V14.4951H68.7434C68.5058 14.4951 68.3114 14.4195 68.1603 14.2684C68.0091 14.1172 67.9335 13.9228 67.9335 13.6853V11.4825C67.9335 11.245 68.0091 11.0506 68.1603 10.8994C68.3114 10.7483 68.5058 10.6727 68.7434 10.6727H71.27V5.32775C71.27 5.0902 71.3456 4.89584 71.4968 4.74467C71.6696 4.5935 71.8639 4.51791 72.0799 4.51791H75.2544C75.492 4.51791 75.6864 4.5935 75.8375 4.74467C75.9887 4.89584 76.0643 5.0902 76.0643 5.32775V10.6727H80.1135C80.3294 10.6727 80.513 10.7483 80.6642 10.8994C80.8153 11.0506 80.8909 11.245 80.8909 11.4825V13.6853C80.8909 13.9228 80.8153 14.1172 80.6642 14.2684C80.513 14.4195 80.3294 14.4951 80.1135 14.4951H76.0643V20.909C76.0643 21.7297 76.2047 22.3775 76.4854 22.8526C76.7877 23.3061 77.306 23.5329 78.0403 23.5329H80.405C80.621 23.5329 80.8045 23.6085 80.9557 23.7597C81.1069 23.9108 81.1825 24.0944 81.1825 24.3103V26.7075C81.1825 26.945 81.1069 27.1394 80.9557 27.2905C80.8045 27.4417 80.621 27.5173 80.405 27.5173H77.5868Z" fill={color}/>
+      <path d="M49.9567 27.5159C49.7407 27.5159 49.5572 27.4403 49.406 27.2891C49.2548 27.138 49.1792 26.9436 49.1792 26.7061V11.4811C49.1792 11.2436 49.2548 11.0492 49.406 10.898C49.5572 10.7469 49.7407 10.6713 49.9567 10.6713H53.1312C53.3688 10.6713 53.5632 10.7469 53.7143 10.898C53.8655 11.0492 53.9411 11.2436 53.9411 11.4811V12.7445C54.5026 12.0534 55.226 11.4811 56.1114 11.0276C56.9969 10.5741 58.0767 10.3473 59.3508 10.3473C60.6249 10.3473 61.7371 10.6389 62.6873 11.222C63.6591 11.7835 64.415 12.6149 64.9549 13.7163C65.5164 14.7961 65.7971 16.1134 65.7971 17.6683V26.7061C65.7971 26.9436 65.7107 27.138 65.538 27.2891C65.3868 27.4403 65.2032 27.5159 64.9873 27.5159H61.5536C61.316 27.5159 61.1216 27.4403 60.9705 27.2891C60.8193 27.138 60.7437 26.9436 60.7437 26.7061V17.8626C60.7437 16.7181 60.463 15.8326 59.9015 15.2064C59.3616 14.5585 58.5626 14.2346 57.5044 14.2346C56.4894 14.2346 55.6795 14.5585 55.0748 15.2064C54.4702 15.8326 54.1678 16.7181 54.1678 17.8626V26.7061C54.1678 26.9436 54.0922 27.138 53.9411 27.2891C53.7899 27.4403 53.6063 27.5159 53.3904 27.5159H49.9567Z" fill={color}/>
+      <path d="M40.2857 27.5162C40.0481 27.5162 39.8538 27.4407 39.7026 27.2895C39.5514 27.1383 39.4758 26.944 39.4758 26.7064V5.65064C39.4758 5.41309 39.5514 5.21873 39.7026 5.06756C39.8538 4.91639 40.0481 4.8408 40.2857 4.8408H43.9461C44.1837 4.8408 44.378 4.91639 44.5292 5.06756C44.6804 5.21873 44.756 5.41309 44.756 5.65064V26.7064C44.756 26.944 44.6804 27.1383 44.5292 27.2895C44.378 27.4407 44.1837 27.5162 43.9461 27.5162H40.2857Z" fill={color}/>
     </svg>
   );
 };

diff --git a/src/pages/PageServiceLanding.jsx b/src/pages/PageServiceLanding.jsx
@@ -49,23 +49,22 @@ const PageServiceLanding = () => {
         }
       } else {
         // PC일 때의 스크롤 위치 조건
-        if (scrollPosition > 1200) {
+        if (scrollPosition > 1100) {
           setTextColor('#000');
           setLogoColor(palette.black);
         } else if (scrollPosition > 0) {
           setTextColor('#fff');
           setLogoColor(palette.white);
         }
-        
-        if (scrollPosition > 2400) {
+        if (scrollPosition > 2250) {
           setTextColor('#fff');
           setLogoColor(palette.white);
         }
       }
 
-      if (scrollPosition < 400) {
+      if (scrollPosition < 600) {
         setButtonColor(palette.white);
-      } else if (scrollPosition < 2100) {
+      } else if (scrollPosition < 1800) {
         setButtonColor(palette.black);
       } else {
         setButtonColor(palette.white);
@@ -471,65 +470,92 @@ const PageServiceLanding = () => {
             <FaqList>
               <li>
                 <button onClick={() => toggleFaq(0)} className={`${openFaq === 0 ? 'open' : ''}`}>
-                  <p>InterviewX는 어떤 서비스인가요?</p>
+                  <p>InterviewX.ai는 기존 시장조사 방식과 어떻게 다른가요?</p>
                   <i />
                 </button>
                 <div className={`answer ${openFaq === 0 ? 'open' : ''}`}>
-                  <p>InterviewX는 AI 기반 사용자 인터뷰 플랫폼으로, 창업에 관심이 있는 대학생이나 예비 창업가, 마케팅분야 종사자, UX 연구자 등이 신속하게 고객 피드백을 수집하고, 시장 검증을 통해 더 나은 의사결정을 내릴 수 있도록 돕는 도구입니다.</p>
+                  <p>
+                    기존 시장 조사는 패널 모집, 설문 설계, 데이터 분석 등에 많은 시간과 비용이 소요됩니다.<br />
+                    InterviewX.ai는 AI 페르소나와 대화형 인터뷰를 통해 즉각적인 인사이트 도출이 가능하며, 기존 조사 방식보다 더 정밀하고 신뢰도 높은 피드백을 자동으로 분석합니다.<br />
+                    ✔ 빠른 실행 – 몇 분 만에 AI 페르소나와 인터뷰 진행<br />
+                    ✔ 심층 분석 – 단순 응답이 아닌, 맥락과 감정을 반영한 피드백 제공<br />
+                    ✔ 자동화된 인사이트 – 인터뷰 후 AI가 주요 인사이트를 요약하여 제공
+                  </p>
                 </div>
               </li>
               <li>
                 <button onClick={() => toggleFaq(1)} className={`${openFaq === 1 ? 'open' : ''}`}>
-                  <p>InterviewX는 어떤 문제를 해결해 주나요?</p>
+                  <p>InterviewX.ai는 어떤 사람이 사용하면 좋을까요?</p>
                   <i />
                 </button>
                 <div className={`answer ${openFaq === 1 ? 'open' : ''}`}>
-                  <p>시간과 비용이 많이 드는 전통적인 인터뷰 방식 대신, AI 페르소나를 활용하여 고객 피드백을 자동화하고 데이터 기반으로 실행 가능한 인사이트를 제공합니다.</p>
+                  <p>
+                    🚀 스타트업 창업자 – 제품 아이디어 검증, 타겟 고객 인터뷰, 시장 반응 분석<br />
+                    📢 마케팅 전문가 – 광고 메시지 테스트, 브랜드 포지셔닝, 캠페인 효과 분석<br />
+                    🔬 UX 및 리서처 – 사용자 경험 조사, 제품 사용성 테스트, 소비자 심리 분석<br />
+                    InterviewX.ai는 소비자의 행동과 반응을 분석하여 맞춤형 피드백을 제공하는 강력한 AI 리서치 도구입니다.
+                  </p>
                 </div>
               </li>
               <li>
                 <button onClick={() => toggleFaq(2)} className={`${openFaq === 2 ? 'open' : ''}`}>
-                  <p>AI 페르소나는 어떻게 작동하나요?</p>
+                  <p>InterviewX.ai의 AI 페르소나는 어떻게 신뢰성을 확보하나요?</p>
                   <i />
                 </button>
                 <div className={`answer ${openFaq === 2 ? 'open' : ''}`}>
-                  <p>AI 페르소나는 AI가 개개인의 연령, 직업, 관심사, 행동 패턴 등의 총 300개 이상의 데이터를 학습하여, 타겟 고객의 행동과 반응을 시뮬레이션하고 실제와 가까운 답변을 제공합니다.</p>
+                  <p>
+                    InterviewX.ai의 AI 페르소나는 단순한 챗봇이 아니라, 공공 데이터, 학술 연구, 시장 조사 데이터를 기반으로 학습된 AI 모델입니다.<br />
+                    ✔ 200개 이상의 실제 프로파일 반영 – 연령, 직업, 관심사, 소비 패턴 등<br />
+                    ✔ 실제 사용자 인터뷰 데이터 학습 – 현실적인 반응을 제공하도록 설계<br />
+                    ✔ 자동 데이터 검증 및 개선 – AI가 지속적으로 학습하며 정확도 향상<br />
+                    따라서, AI 페르소나는 실제 소비자와 유사한 피드백을 제공하며, 신뢰할 수 있는 조사 결과를 생성합니다.
+                  </p>
                 </div>
               </li>
               <li>
                 <button onClick={() => toggleFaq(3)} className={`${openFaq === 3 ? 'open' : ''}`}>
-                  <p>InterviewX로 무엇을 할 수 있나요?</p>
+                  <p>InterviewX.ai를 활용하면 어떤 조사가 가능한가요?</p>
                   <i />
                 </button>
                 <div className={`answer ${openFaq === 3 ? 'open' : ''}`}>
-                  <p>AI 페르소나, AI 타겟고객, 분야별 AI 전문가와 다양한 방식으로 인터뷰를 진행하고, 인사이트를 얻을 수 있습니다.</p>
-                  <ul>
-                    <li>타겟 고객 페르소나와의 1:N 인터뷰</li>
-                    <li>타겟 고객 1:1 심층 인터뷰 (나만의 맞춤형 인터뷰 질문 지원)</li>
-                    <li>분야별 AI 전문가 인터뷰</li>
-                    <li>인터뷰 결과 분석</li>
-                    <li>자동화된 분석 보고서 제공</li>
-                  </ul>
+                  <p>
+                    InterviewX.ai는 다양한 비즈니스 요구에 맞춰 유연한 인터뷰 방식을 제공합니다.<br />
+                    📍 1:1 심층 인터뷰 – 개별 AI 페르소나와 심층적인 대화 진행<br />
+                    📍 1:N 인터뷰 – 최대 5명의 AI 페르소나와 동시 인터뷰 가능<br />
+                    📍 퀵서베이 – 50명 이상의 AI 페르소나를 대상으로 대량 의견 조사<br />
+                    이를 통해 제품 기획, 마케팅 전략 수립, 소비자 인사이트 분석 등의 다양한 리서치를 효율적으로 수행할 수 있습니다.
+                  </p>
                 </div>
               </li>
               <li>
                 <button onClick={() => toggleFaq(4)} className={`${openFaq === 4 ? 'open' : ''}`}>
-                  <p>InterviewX는 어떻게 시작하나요?</p>
+                  <p>InterviewX.ai는 어떻게 시작하나요?</p>
                   <i />
                 </button>
                 <div className={`answer ${openFaq === 4 ? 'open' : ''}`}>
-                  <p>간단한 창업 아이디어 또는 창업 아이템에 대한 간단한 설명을 입력하면, AI 비즈니스 분석 및  AI 페르소나를 생성하고 인터뷰를 실행한 후 결과를 제공합니다.</p>
+                  <p>
+                    InterviewX.ai는 누구나 쉽게 사용할 수 있도록 설계되었습니다.<br />
+                    1⃣ 아이디어 입력 – 조사할 제품이나 서비스 개요 입력<br />
+                    2⃣ 페르소나 자동 생성 – AI가 맞춤형 타겟 페르소나 추천<br />
+                    3⃣ 인터뷰 진행 – 1:1, 1:N, 퀵서베이 중 원하는 방식 선택<br />
+                    4⃣ 결과 분석 – AI가 인터뷰 내용을 분석하여 주요 인사이트 제공<br />
+                    👉 몇 분 만에 실행 가능하며, 누구나 쉽게 시작할 수 있습니다! 🚀
+                  </p>
                 </div>
               </li>
               <li>
                 <button onClick={() => toggleFaq(5)} className={`${openFaq === 5 ? 'open' : ''}`}>
-                  <p>사용자가 직접 질문을 작성해야 하나요?</p>
+                  <p>추가 문의가 필요한 경우 어떻게 하나요?</p>
                   <i />
                 </button>
                 <div className={`answer ${openFaq === 5 ? 'open' : ''}`}>
-                  <p>기본 제공 질문 템플릿이 있으며, 필요에 따라 맞춤형 질문을 작성할 수도 있습니다.</p>
+                  <p>
+                    InterviewX.ai에 대한 더 자세한 정보가 필요하시거나, 맞춤형 사용 방법을 상담받고 싶다면, 아래의 이메일을 통해 문의해 주세요.<br />
+📧 이메일 문의 – info@userconnect.kr
+                  </p>
                 </div>
               </li>
+              {/* 
               <li>
                 <button onClick={() => toggleFaq(6)} className={`${openFaq === 6 ? 'open' : ''}`}>
                   <p>서비스를 이용하는 것은 무료인가요?</p>
@@ -597,6 +623,7 @@ const PageServiceLanding = () => {
                   <p>시간이 지나며 쌓이는 데이터를 통해 고객의 변화된 니즈와 트렌드를 더 잘 이해할 수 있습니다.</p>
                 </div>
               </li>
+               */}
             </FaqList>
           </div>
         </FaqWrap>
@@ -932,6 +959,7 @@ const Section01 = styled.div`
   align-items: center;
   justify-content: center;
   overflow: hidden;
+  margin-top: -10vh;
 
   ${media.mobile} {
     margin: 0 auto;
@@ -1183,7 +1211,8 @@ const Section02 = styled.div`
   align-items: center;
   justify-content: center;
   gap: 40px;
-  padding-top: 20vh;
+  // padding-top: 20vh;
+  margin-top: -10vh;
   background: radial-gradient(114.49% 114.49% at 50% 114.49%, #000 0%, #000 88.09%, rgba(0, 0, 0, 0.00) 100%);
 
   ${media.mobile} {
@@ -1249,7 +1278,7 @@ const Section02 = styled.div`
       border-radius: 898px;
       background: radial-gradient(50% 50% at 50% 50%, rgba(34, 111, 255, 0.45) 0%, rgba(0, 0, 0, 0.45) 76%);
       content: "";
-      z-index: -1;
+      z-index: 0;
 
       ${media.mobile} {
         bottom: 200px;
@@ -1414,7 +1443,7 @@ const Section03 = styled.div`
     transition: all .5s;
 
     &:hover {
-      border: 0;
+      border: 1px solid transparent;
       background: linear-gradient(180deg, rgba(34, 111, 255, 0.30) 0%, #020204 100%);
     }
 
@@ -1428,6 +1457,7 @@ const Section03 = styled.div`
       line-height: 1.5;
       letter-spacing: -0.72px;
       text-align: left;
+      margin-top: 12px;
 
       ${media.mobile} {
         font-size: 1rem;
